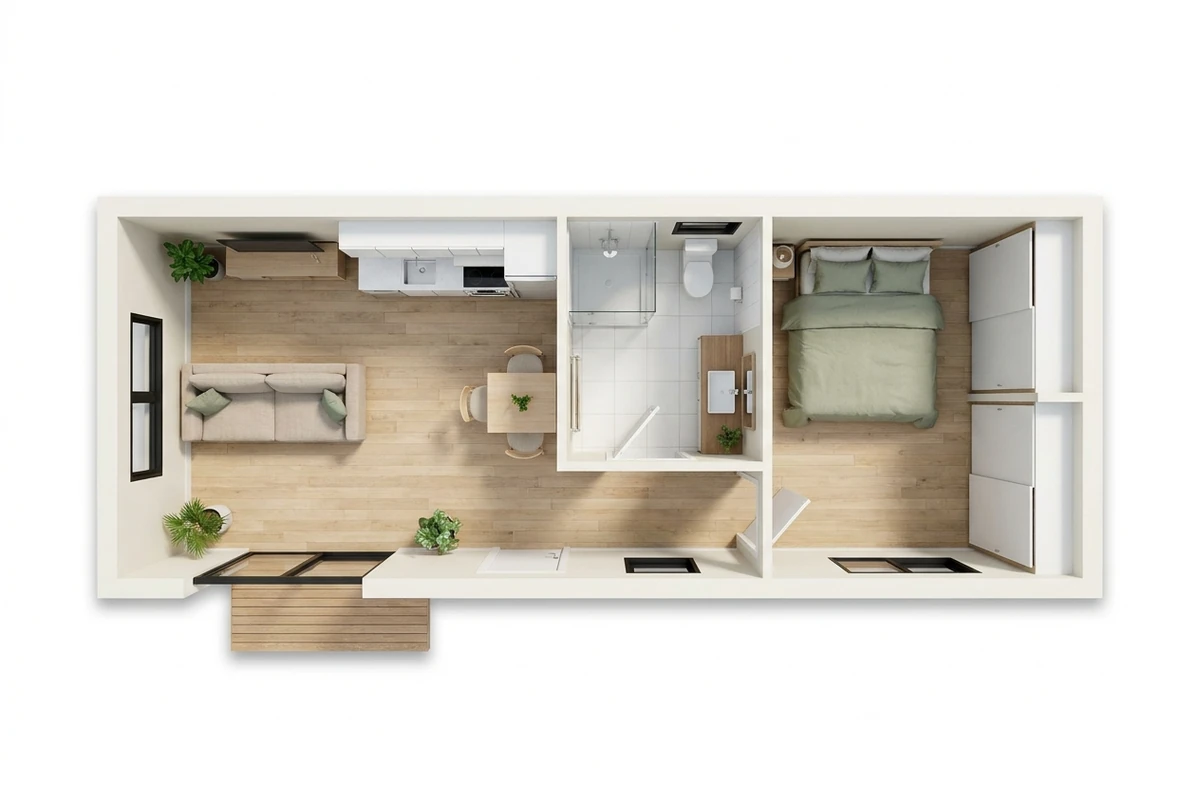
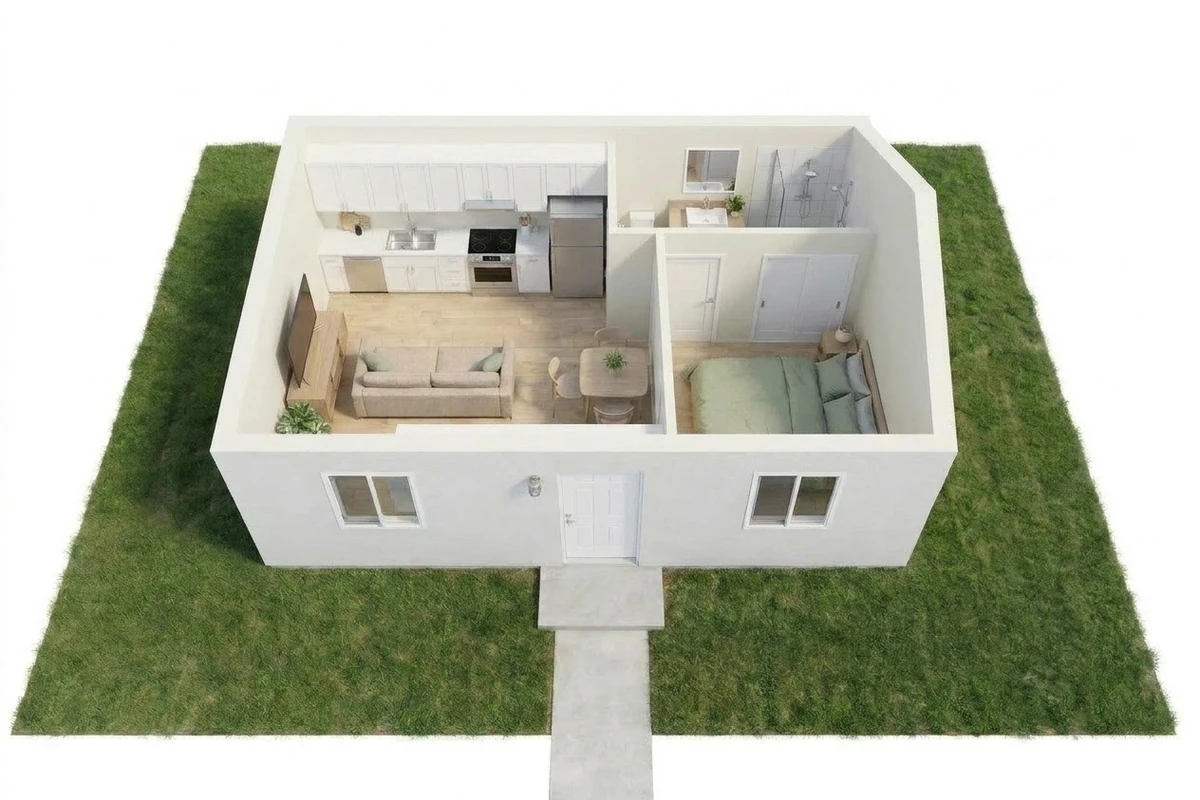
ADU funnel: step-1 plans are cutaways of the same building step 2 shows
Owner: "the shape of the ADU doesn't match the layout photo". The flat plans had a
wood deck and an off-centre door, and the studio plan was wide where the building is
narrow and deep. Each plan is now a furnished 3D cutaway (roof off) cut from that
model's Standard exterior photo: same footprint, centred front door, front windows and
concrete path, in one style (the studio cutaway is the style reference).

Claude-Session: https://claude.ai/code/session_01T67yqz8V8aZbsRdDfjP7Jz

diff --git a/content/estimators/homequote-adu-funnel.ts b/content/estimators/homequote-adu-funnel.ts
@@ -8,7 +8,7 @@ import { ADU_MODELS, type AduModel, upgradeAnswers } from '@/lib/estimator/templ
  *
  * 1. "Select a model.": Studio · One bedroom · Two bedroom · Three bedroom ·
  *    Garage conversion (HomeQuote gets those leads too). Photo: a furnished 3D
- *    cutaway floor plan of the model, all plans in one style and one scale.
+ *    cutaway of the model with the roof off: the same building the finish step shows (its footprint, front door, windows and path), all in one style.
  * 2. "Choose your finish.": Standard / Luxe. Photo: THAT model built in the
  *    same backyard (same house, drone and light), Standard or Luxe.
  * 3. "Design your kitchen.": Standard / Upgraded. Photo: the inside of the
@@ -47,9 +47,9 @@ const STANDARD_WORDS = 'stucco, white windows and a shingle roof';
 // Minimal (owner: the first luxe, with cedar and a deck, was too much): the same house, three changes.
 const LUXE_WORDS = 'smooth white stucco, black windows and door and a slim standing-seam metal roof';
 
-/** Step 1: the model's furnished floor plan. */
+/** Step 1: the model as a furnished 3D cutaway (roof off) of the same building the finish step shows. */
 const PLANS = Object.fromEntries(
-  ADU_MODELS.map((m) => [m, photo(`plan-${m}`, `Furnished 3D floor plan of a ${MODEL_WORDS[m]} (AI-generated example design)`)]),
+  ADU_MODELS.map((m) => [m, photo(`plan-${m}`, `Furnished 3D cutaway of a ${MODEL_WORDS[m]}, roof off, the same building as the next photo (AI-generated example design)`)]),
 ) as Record<AduModel, FunnelPhoto>;
 
 /** Step 2: the model in the backyard. The one bedroom keeps its first key ("type-detached"). */

diff --git a/HOMEQUOTE_CONTEXT.md b/HOMEQUOTE_CONTEXT.md
@@ -1440,7 +1440,7 @@ Homeowner flow (project, shape, size, package or custom choices, property questi
 - **Step photo framing (2026-10-30, crop fix)**: the 3:2 funnel photos sit in a wider card (7:4 phones, 2.8:1 under 640 px tall, 16:9 / 2.2:1 desktop), so `cover` cut off their top and bottom and the bathroom's size plans (contained at 1.3) lost their edges. Framing is now per spec / per step: `FunnelStep.photoFit` ('cover' | 'contain'), `photoZoom` (contain only), `photoBackdrop` ('white' | 'blur': a blurred copy of the same file, same srcset, class `.fn-backdrop`), defaults from `FunnelSpec.photoFrame`, resolved by `stepPhotoFrame()` in `lib/estimator/funnel/engine.ts` (`DEFAULT_CONTAIN_ZOOM` 1.3). Unset = the pool's look (option rules contain at 1.3 on white, view/matrix cover); Pool Masters sets nothing and its screenshots are pixel-identical before/after. Bathroom and kitchen: `photoFrame {fit: 'contain', zoom: 1, backdrop: 'blur'}`, size plans `contain`, zoom 1, white. Card size unchanged (no layout shift; every step still fits an iPhone SE / 14 Pro / Pixel 7 screen). On white a fallback still covers; on blur it is shown whole. Tests: `tests/estimator-funnel-photo-frame.test.tsx`.
 - **Kitchen simple funnel (2026-10-30, no migration; example prices, `noindex`)**: `/estimator/kitchen-remodel` (+ `/design`, `/my-design`, `/embed/estimator/kitchen-remodel`), HomeQuote Network, same shape and network wording as the bathroom funnel (no licence/years/reviews/projects; HomeQuote team calendar, "Liam from HomeQuote"). Config `content/estimators/homequote-kitchen.ts` (`trade: 'kitchen'`, `experience: 'funnel'`, `funnelSlug: 'kitchen-remodel'`, `revealRange: 'after_contact'`, `adMeasurement: 'opt_out'`), spec `content/estimators/homequote-kitchen-funnel.ts`. New template `lib/estimator/templates/kitchen.ts` + `catalog/kitchen.ts` (`KITCHEN_TEMPLATE`, pricesConfirmed false, validateTemplate clean; project base, cabinets, counter and floor per sq ft of floor, the rest flat; sizes small 10x10 / medium 14x12 / large 18x16; optional `islandStyle`; site visits for an island sink, panel-ready built-ins and an island in a compact kitchen; site questions plumbing/damage/location left for the visit; no packages/scope). Trade `kitchen` is registered in `EstimatorTrade` and `TEMPLATES`; it has **no builder** (`BuilderTrade` = pool | bathroom types `TRADE_META` / `BUILDERS`, so `tradeMeta('kitchen')` and `getTradeBuilder('kitchen')` are null; landing metadata falls back to the funnel's `designDescription`). Steps: size (compact/medium/large -> small/medium/large), finish (Standard = stock shaker, quartz, subway, stainless package, porcelain, recessed lighting, nickel; Luxe = custom, quartzite, slab backsplash, pro range, hardwood, designer lighting, brass), layout (l/u/island -> l_shape/u_shape/island); follow-ups: cabinets (always: white/wood/two_tone `cabinetFinish`), island (layout island: prep/seating/sink `islandStyle`), appliances (Luxe only — Standard's subtitle already promises a stainless package; stainless/pro/panel). 4-6 steps, 180 paths, $32k-$248k example ranges. Lead: project full -> service `full_remodel` (refresh -> `cabinets_counters`, `PROJECT_ALIASES.kitchen`), qualified with homeowner yes. Photos `public/estimator/kitchen/funnel/<key>.webp` (+`-sm`; `scripts/generate-kitchen-funnel-photos.mjs`), each with an Unsplash stock fallback from `content/industry-photos.ts` (alt says "illustrative stock photo"). Keys: size-{compact|medium|large} (to-scale plans on one white canvas), layout-{l|u|island}-{standard|luxe} (one kitchen; every room photo an edit of the master `layout-island-luxe`), cabinets-{white|wood|twotone} (twotone = alias of the master), island-{prep|seating|sink} (seating = alias), appliances-{stainless|pro|panel} (a closer view of the cooking wall, regenerated 2026-10-30 so the three packages read apart on a phone; stainless and panel are edits of pro). Since 2026-10-30 every later step shows the chosen size and the picks so far (see "Size-aware photos" below); the two-tone subtitle reads "White and wood together" so it fits L/U paths too. On an iPhone SE the photo card is small (about 256 x 91 px) because the step must fit one screen. Kitchen nouns: `designNoun()` in `lib/estimator/share.ts` (share text, shared design page), `lib/leads/design.server.ts` NOUN, `lib/booking/recovery-copy.ts` callNames. Lead note "Homeowner: yes, they own the home" for non-pool trades. Tests: `tests/estimator-kitchen-funnel.test.tsx`.
 - **Size-aware photos + "Your design" recap (bathroom + kitchen, 2026-10-30, no migration)**: owner: "If I choose small it doesn't show a small bathroom" / "make it feel like they are building it". Every step after the size shows the chosen room with the earlier picks in it. New rooms (kie.ai `nano-banana-pro`, text-to-image masters with the original master as a style reference, then edits; `scripts/generate-{bath,kitchen}-funnel-photos.mjs` `SMALL_JOBS`, `ref`/`refRaw`, `export [key ...]`): bathroom guest 5x8 (`layout-{walkin|combo}-{standard|luxe}-guest`) and full 8x10 (`layout-{walkin|combo|spa}-{standard|luxe}-full`); kitchen compact 10x10 (`layout-{l|u}-{standard|luxe}-compact`) and medium 12x14 (`layout-{l|u|island}-{standard|luxe}-medium`); the primary suite / large kitchen keep the old keys. Follow-ups edited from the matching room photo: `shower-{curbless|bench}-walkin-{standard|luxe}-{full|guest}`, `tub-{clawfoot|stone}-spa-luxe-full`, `cabinets-{wood|twotone}-island-{standard|luxe}-medium`, `cabinets-{wood|twotone}-l-standard-{medium|compact}`, `island-{prep|sink}-luxe-medium`, `appliances-{stainless|panel}-u-compact`; options a room photo already shows reuse it (frameless shower, soaking tub, white cabinets on standard / luxe L-U paths, seating island, compact pro range). Engine: photo rule `variants` (`{by: [{stepId, ordered?}], photos: [{when, photo}]}` in `lib/estimator/funnel/types.ts`; `bestVariant` in `engine.ts`: own option required, others compared in `by` order, same < unnamed < different, ordered steps by distance = nearest size; `photoKey` = file name, so lead `estimator_photos` keys carry the size). Room photos match layout/finish then size (guest spa bath / compact island, site-visit items, show the full / medium room); follow-ups match layout, size, finish. `FunnelSpec.designRecap {label: 'Your design'}`: one truncated line under the photo from step 2 on ("Your design: Full bath · Luxe · Walk-in shower", `designRecap()` in the engine, grows with the current pick; h1 margin 18 -> 10 px with it so the button stays on an iPhone 14 Pro's 660 px; `.fn-recap` hidden at max-height 640 px). Pool: no recap, no variants, unchanged. Fallbacks (budget): spa-path curbless/bench -> the room's walk-in one; primary standard follow-ups -> primary luxe; full standard tubs -> full luxe; vanity step = the original luxe vanity-wall photos for every size/finish; kitchen wood/two-tone only for medium island std/luxe, medium L std, compact L std, large luxe island (wood) — other paths take the nearest same-layout one (U uses L), else nearest size; standard island prep/sink -> luxe of that size; medium appliances -> the large close-ups; compact stainless/panel are U-shaped. Tests: `tests/estimator-funnel-size-photos.test.ts`; full list in `docs/pool-estimator.md` "Size-aware photos".
-- **ADU simple funnel (2026-10-30; Buildoly quote-flow format 2026-10-31; no migration; example prices, `noindex`)**: `/estimator/adu` (+ `/design`, `/my-design`, `/embed/estimator/adu`; `/adu` redirects there), HomeQuote Network, network wording as the kitchen funnel (no licence/years/reviews/projects; HomeQuote team calendar, "Liam from HomeQuote"). Config `content/estimators/homequote-adu.ts` (`trade: 'adu'`, `experience: 'funnel'`, `funnelSlug: 'adu'`), spec `content/estimators/homequote-adu-funnel.ts`. **Steps = buildoly.com/design** (owner: "make the ADU one look like Buildoly"): 1 "Select a model." (Studio ~350 / One bedroom ~500 / Two bedroom ~750 / Three bedroom ~1,000 sq ft / Garage conversion ~400; photo = a furnished 3D floor plan on a white card), 2 "Choose your finish." (Standard / Luxe; photo = that model in the backyard), 3 "Design your kitchen." (Standard / Upgraded; the ADU's kitchen in that finish), 4 "Design your bathroom." (Standard: tub + shower, subway tile / Upgraded: walk-in glass shower, large porcelain; added 2026-10-31, owner: "let them design their bathroom as well"), 5 "Choose your storage." (Standard / More closet space; the bedroom; only for 1/2/3 bed, so a studio or garage conversion is 4 steps). 64 paths. Photos fill the card (`photoFrame.fit: 'cover'`; step 1 white contain); no "Your design" line (Buildoly has none). The separate build-type step and the attached addition were dropped (attached stays a template project id for old leads only). Template `lib/estimator/templates/adu.ts` (+ empty `catalog/adu.ts`, `maxSingleOptions: 5` for the five models): every price comes from `lib/adu/pricing-config.ts`, as a range from the figure to ~12% above it; `model` carries `BASE_PRICE` of its tier (`MODEL_TIER`: studio + 1 bed = studio1, 2 bed = b2ba1, 3 bed = b3ba2, garage = garage); Luxe = living room Premium, Upgraded kitchen = kitchen Premium Plus, Upgraded bathroom = bathroom Premium, More closet space = bedroom Premium Plus, each for the model's tier through hidden per-tier yes/no questions (`finishUp_<tier>`, `kitchenUp_<tier>`, `bathUp_<tier>`, `storageUp_<tier>`, shown only for that tier's models; the funnel's pick answers all of them via `upgradeAnswers()`, only the visible one prices). All four together = `luxeUpgrade(tier)`. `project` (detached / garage) is answered from the model (the adu funnel's service value, `PROJECT_ALIASES.adu`). Trade `adu` in `EstimatorTrade` / `TEMPLATES`, excluded from `BuilderTrade`. Nouns: `designNoun('adu')` = "ADU", design.server NOUN, recovery-copy callNames. **Photos** (`public/estimator/adu/funnel/`, `scripts/generate-adu-funnel-photos.mjs`, kie.ai nano-banana-pro, 18 credits each at 1K): exteriors are ONE drone view of one house + lawn + detached garage in the same light (studio built on the master on a painted magenta footprint; 1 bed = `type-detached`, 2 bed, 3 bed (an L-shaped wing) each grow the previous; garage conversion edits the master; each Luxe is an edit of its Standard: `finish-detached-<model>-luxe`, `finish-garage-luxe`; redone 2026-10-31 as MINIMAL (owner: the cedar + deck + lights version was "OD"): the same building with only smooth white stucco, black windows and door and a slim dark standing-seam roof). Plans `plan-<model>` are edits of `plan-1bed` (one style and scale); `plan-garage` (two sofas back to back, bed mid-room) and `plan-3bed` (only two bedrooms) ship fixed edits of themselves (`plan-*-fixed` raws, script ALIASES). Inside: `kitchen-standard` (white frames, grey plank floor) -> `kitchen-luxe` (black frames, oak floor) -> `-upgraded` (oak cabinets, premium appliances); `bedroom-standard` styled from the kitchen -> `bedroom-luxe` -> `-more` (three wardrobes); `bath-standard` styled from the kitchen -> `bath-luxe` (black window frame and fixtures, oak floor) -> `-upgraded`. 27 files, every path has its own exact photo, no fallbacks. Live use needs the `adu` funnel row in `funnels` ("Add house funnels" on `/app/funnels`, then publish). Tests: `tests/estimator-adu-funnel.test.tsx`.
+- **ADU simple funnel (2026-10-30; Buildoly quote-flow format 2026-10-31; no migration; example prices, `noindex`)**: `/estimator/adu` (+ `/design`, `/my-design`, `/embed/estimator/adu`; `/adu` redirects there), HomeQuote Network, network wording as the kitchen funnel (no licence/years/reviews/projects; HomeQuote team calendar, "Liam from HomeQuote"). Config `content/estimators/homequote-adu.ts` (`trade: 'adu'`, `experience: 'funnel'`, `funnelSlug: 'adu'`), spec `content/estimators/homequote-adu-funnel.ts`. **Steps = buildoly.com/design** (owner: "make the ADU one look like Buildoly"): 1 "Select a model." (Studio ~350 / One bedroom ~500 / Two bedroom ~750 / Three bedroom ~1,000 sq ft / Garage conversion ~400; photo = a furnished 3D cutaway of that model's building with the roof off, on a patch of lawn on white), 2 "Choose your finish." (Standard / Luxe; photo = that model in the backyard), 3 "Design your kitchen." (Standard / Upgraded; the ADU's kitchen in that finish), 4 "Design your bathroom." (Standard: tub + shower, subway tile / Upgraded: walk-in glass shower, large porcelain; added 2026-10-31, owner: "let them design their bathroom as well"), 5 "Choose your storage." (Standard / More closet space; the bedroom; only for 1/2/3 bed, so a studio or garage conversion is 4 steps). 64 paths. Photos fill the card (`photoFrame.fit: 'cover'`; step 1 white contain); no "Your design" line (Buildoly has none). The separate build-type step and the attached addition were dropped (attached stays a template project id for old leads only). Template `lib/estimator/templates/adu.ts` (+ empty `catalog/adu.ts`, `maxSingleOptions: 5` for the five models): every price comes from `lib/adu/pricing-config.ts`, as a range from the figure to ~12% above it; `model` carries `BASE_PRICE` of its tier (`MODEL_TIER`: studio + 1 bed = studio1, 2 bed = b2ba1, 3 bed = b3ba2, garage = garage); Luxe = living room Premium, Upgraded kitchen = kitchen Premium Plus, Upgraded bathroom = bathroom Premium, More closet space = bedroom Premium Plus, each for the model's tier through hidden per-tier yes/no questions (`finishUp_<tier>`, `kitchenUp_<tier>`, `bathUp_<tier>`, `storageUp_<tier>`, shown only for that tier's models; the funnel's pick answers all of them via `upgradeAnswers()`, only the visible one prices). All four together = `luxeUpgrade(tier)`. `project` (detached / garage) is answered from the model (the adu funnel's service value, `PROJECT_ALIASES.adu`). Trade `adu` in `EstimatorTrade` / `TEMPLATES`, excluded from `BuilderTrade`. Nouns: `designNoun('adu')` = "ADU", design.server NOUN, recovery-copy callNames. **Photos** (`public/estimator/adu/funnel/`, `scripts/generate-adu-funnel-photos.mjs`, kie.ai nano-banana-pro, 18 credits each at 1K): exteriors are ONE drone view of one house + lawn + detached garage in the same light (studio built on the master on a painted magenta footprint; 1 bed = `type-detached`, 2 bed, 3 bed (an L-shaped wing) each grow the previous; garage conversion edits the master; each Luxe is an edit of its Standard: `finish-detached-<model>-luxe`, `finish-garage-luxe`; redone 2026-10-31 as MINIMAL (owner: the cedar + deck + lights version was "OD"): the same building with only smooth white stucco, black windows and door and a slim dark standing-seam roof). Plans `plan-<model>` (redone 2026-10-31, owner: "the shape of the ADU doesn't match the layout photo"): each is a furnished 3D cutaway (roof off) cut from THAT model's Standard exterior photo, so the footprint, centred front door, front windows and concrete path match step 2 (`PLAN_CUT` + `PLAN_MATCH_MODEL`; the studio's `plan-studio-match` is the style reference; 1 bed / 2 bed / garage needed second tries `-cut2` for framing and window count, the 1 bed a third `-cut3` to wall off its bedroom). Shipped from those raws via the script's ALIASES; the earlier flat plans are kept only as drafts. Inside: `kitchen-standard` (white frames, grey plank floor) -> `kitchen-luxe` (black frames, oak floor) -> `-upgraded` (oak cabinets, premium appliances); `bedroom-standard` styled from the kitchen -> `bedroom-luxe` -> `-more` (three wardrobes); `bath-standard` styled from the kitchen -> `bath-luxe` (black window frame and fixtures, oak floor) -> `-upgraded`. 27 files, every path has its own exact photo, no fallbacks. Live use needs the `adu` funnel row in `funnels` ("Add house funnels" on `/app/funnels`, then publish). Tests: `tests/estimator-adu-funnel.test.tsx`.
 - **Product name**: the self-serve version for other contractors (planned) is called **Rendoly** (one L; the owner holds the domain **rendoly.com**) (e.g. a "Powered by Rendoly" link on contractor estimators). Not built yet; Pool Masters' estimator shows Pool Masters branding. Logo (roofline r: a roof over a lowercase "r") in `public/brand/rendoly/` (SVG masters with the wordmark outlined, PNG icons/favicons, colours and rules in its README); not used by any page yet.
 
 ## 41. Add sales appointments to Google / Apple Calendar (migration 0066, 2026-10-28; applied to production 2026-10-28)
